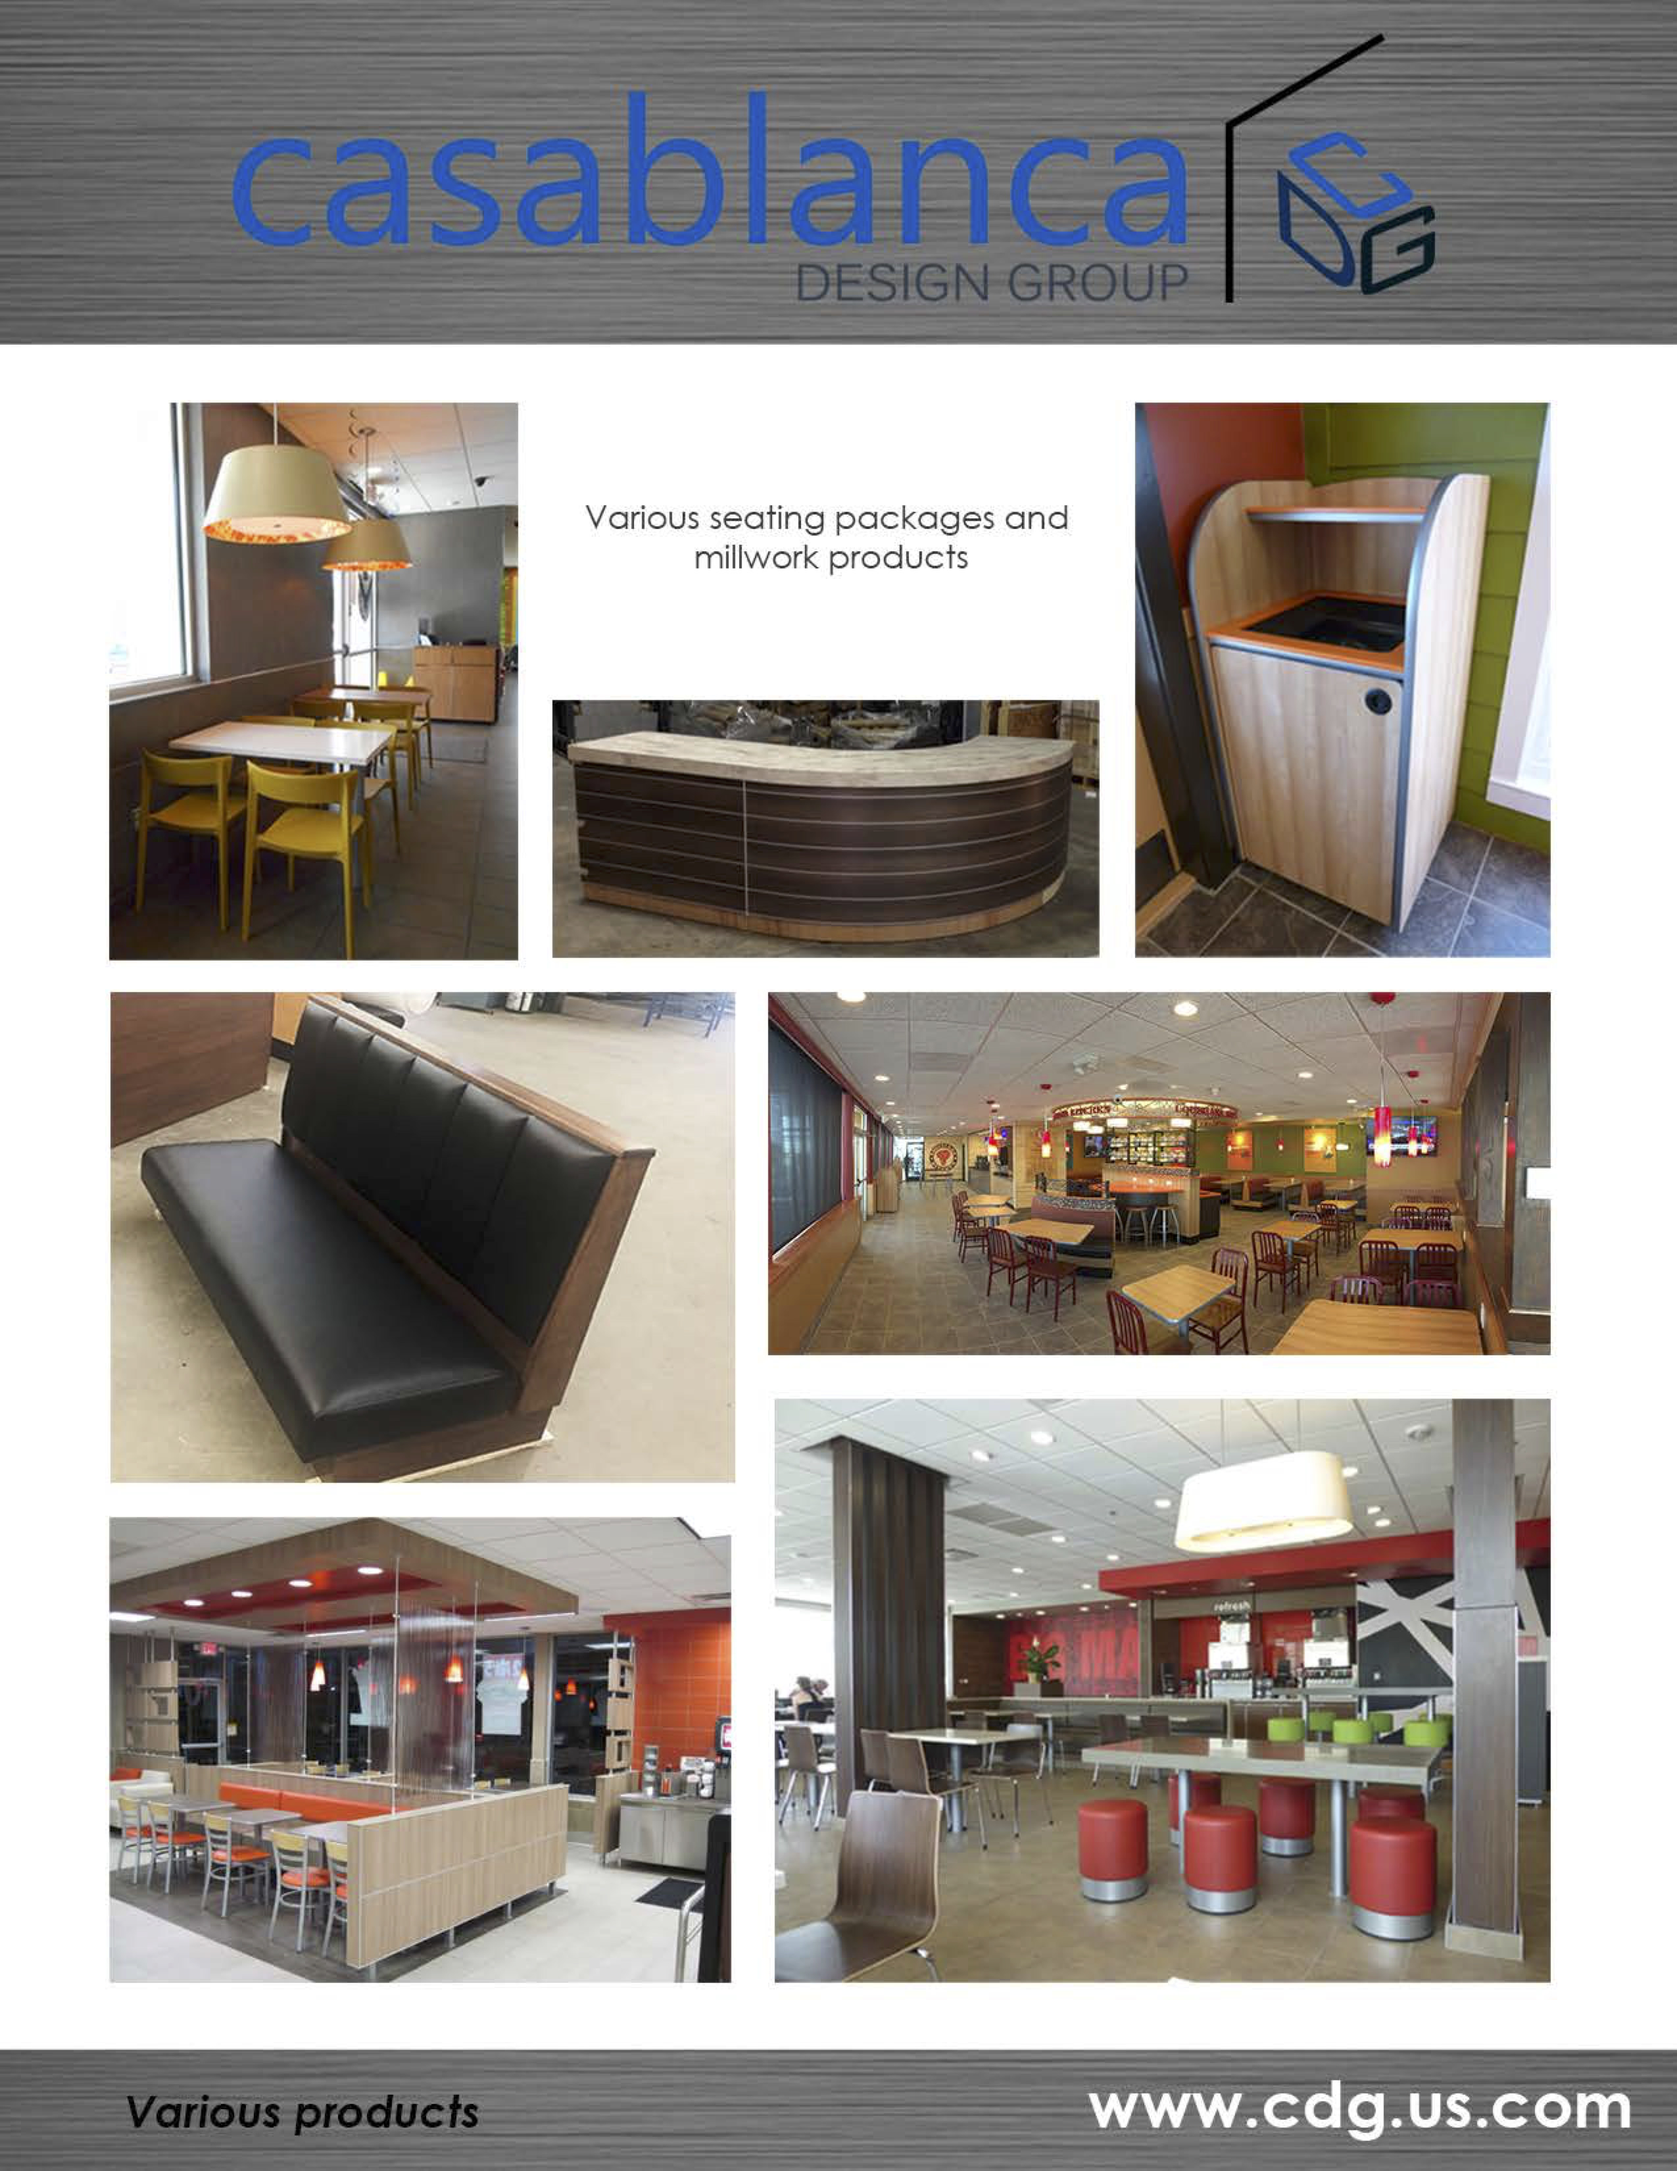
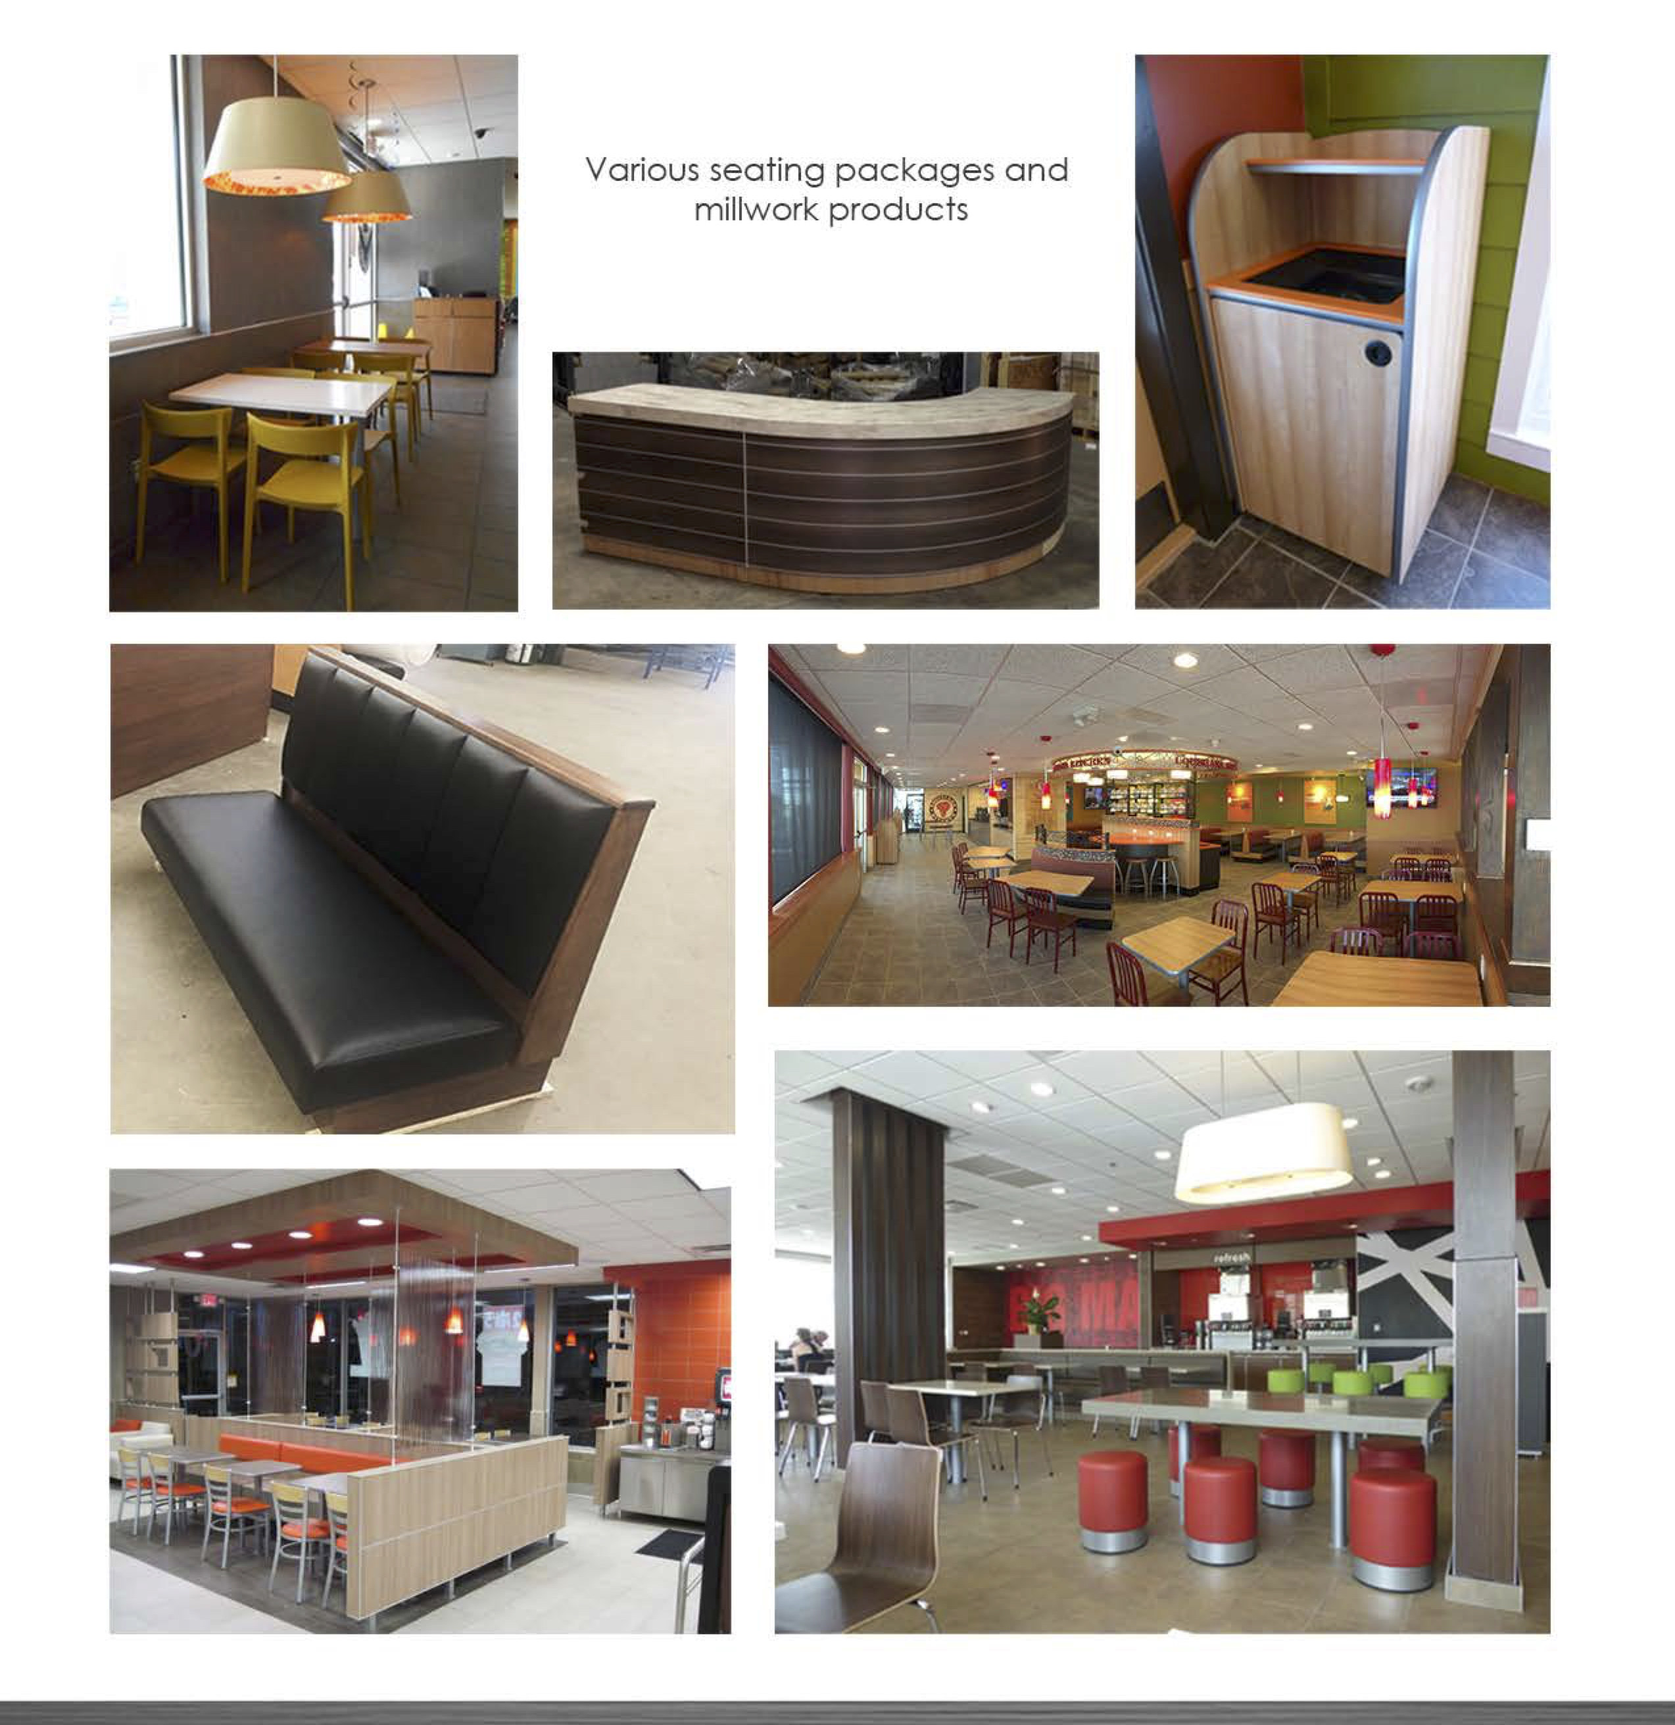
brochure images added to otherbrands.html

diff --git a/public/otherBrands.html b/public/otherBrands.html
@@ -155,7 +155,9 @@
         <main>
 
             <div class="other-brands center">
-                <img src="assets/catalogs/Other/brands.jpg">
+                <img src="assets/catalogs/Other/CDGBrochureD.jpg">
+                <img src="assets/catalogs/Other/CDGBrochureB.jpg">
+                <img src="assets/catalogs/Other/CDGBrochureC.jpg">
             </div>
 
         </main>
